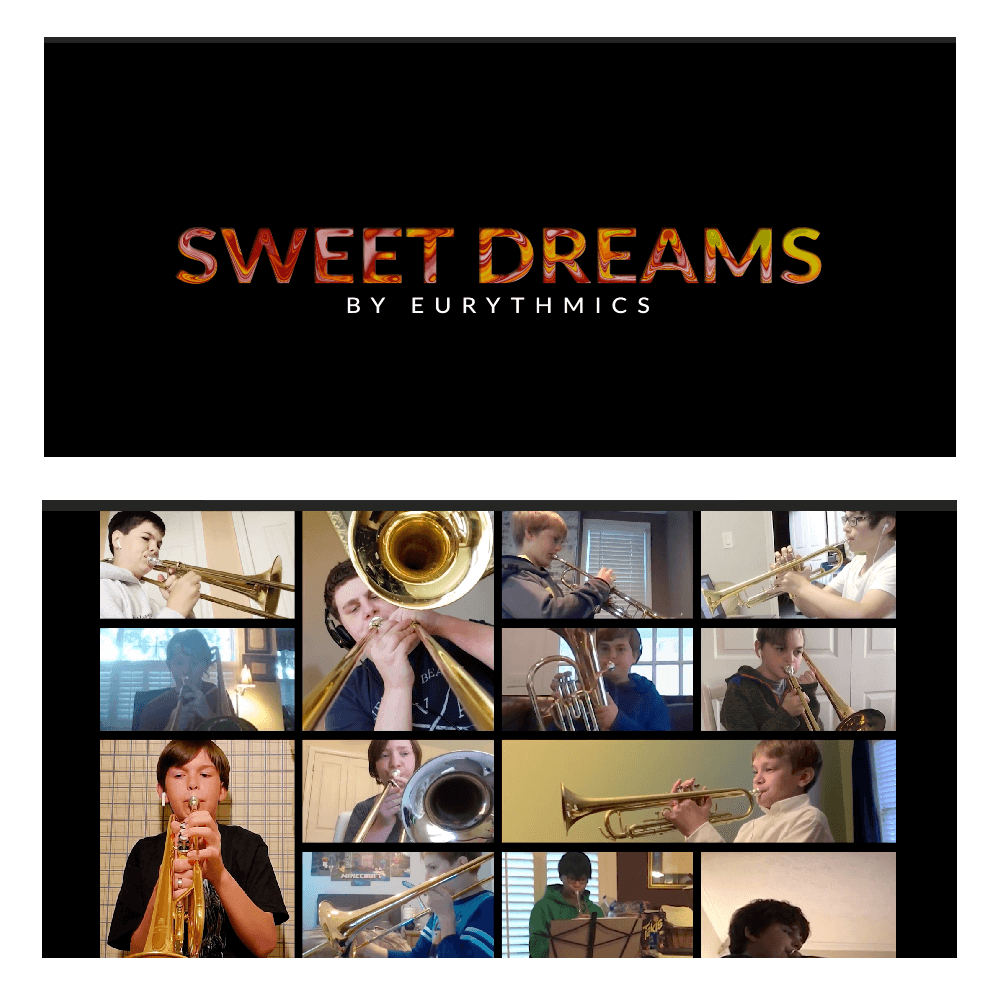
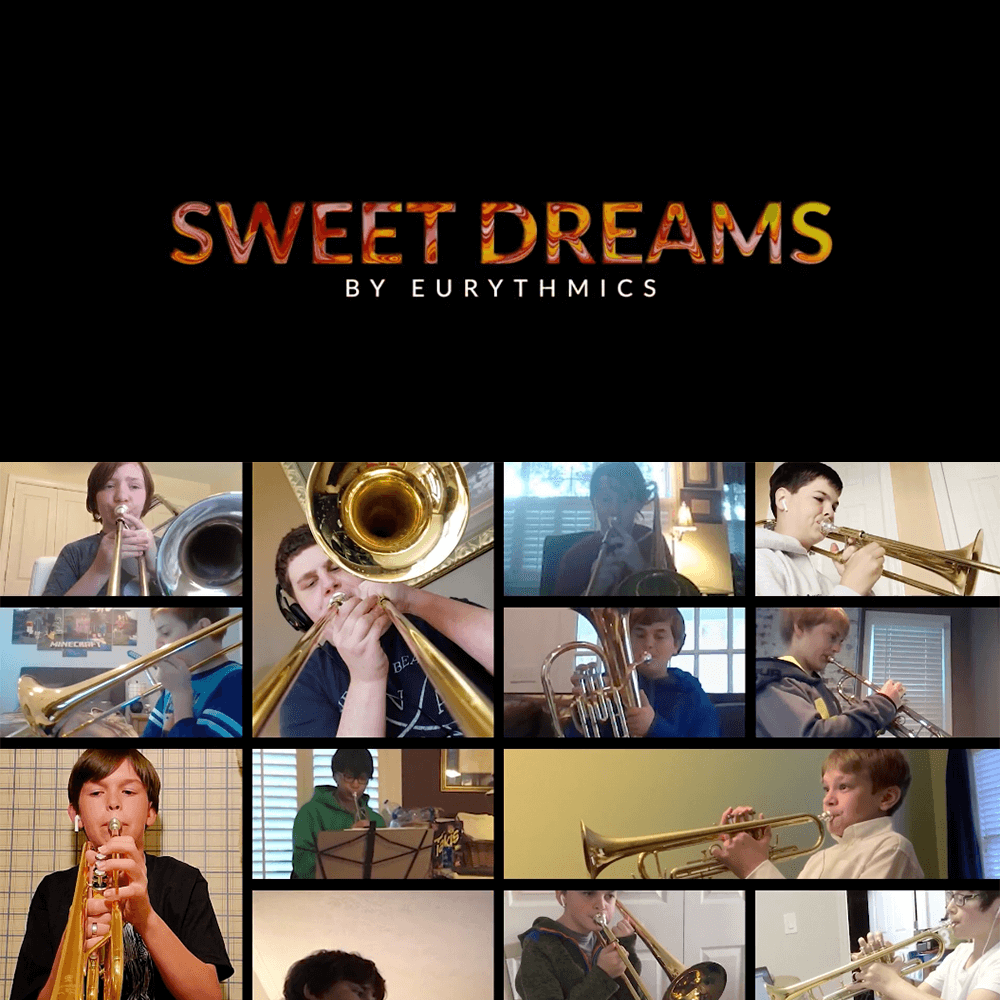
av portfolio images updated

diff --git a/index.html b/index.html
@@ -300,7 +300,7 @@
                     <div class="portfolio-item-content">
                     </div>
                   </div>
-                  <img src="images/SDPortfolio.png" class="lazyload  img-fluid" alt="Images" />
+                  <img src="images/SDPortfolio.png" class="lazyload  img-fluid portImg" alt="Images" />
                 </a>
               </div>
               <!-- Portfolio 2 -->
@@ -312,7 +312,7 @@
                       <!-- <p>Heroku Deployed</p> -->
                     </div>
                   </div>
-                  <img src="images/DSBPortfolio4.png" class="lazyload  img-fluid" alt="Images" />
+                  <img src="images/DSBPortfolio.png" class="lazyload  img-fluid portImg" alt="Images" />
                 </a>
               </div>
               <!--Portfolio 3-->
@@ -324,7 +324,7 @@
                       <!-- <p>Github Deployed</p> -->
                     </div>
                   </div>
-                  <img src="images/URPortfolio.png" class="lazyload  img-fluid" alt="Images" />
+                  <img src="images/URPortfolio.png" class="lazyload  img-fluid portImg" alt="Images" />
                 </a>
               </div>
             </div>
